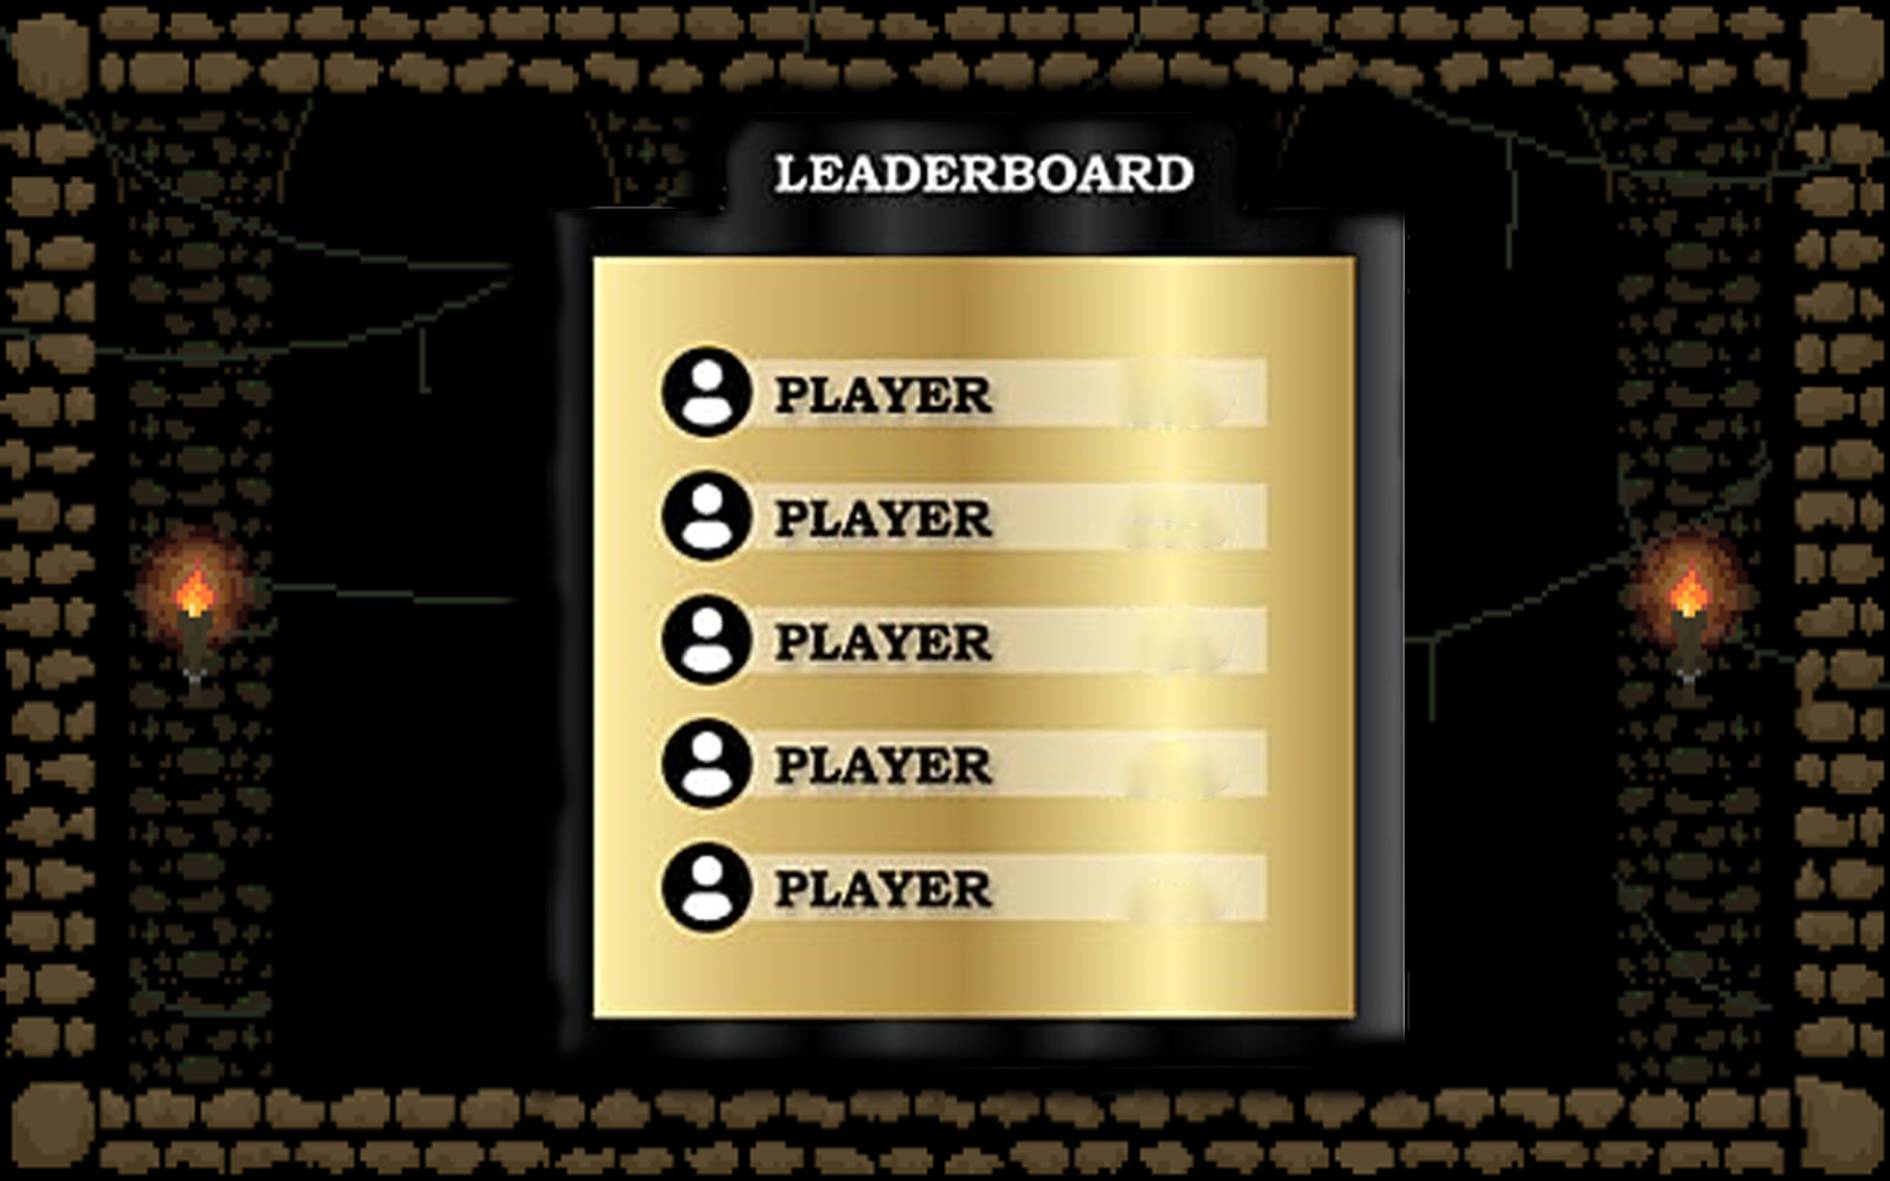
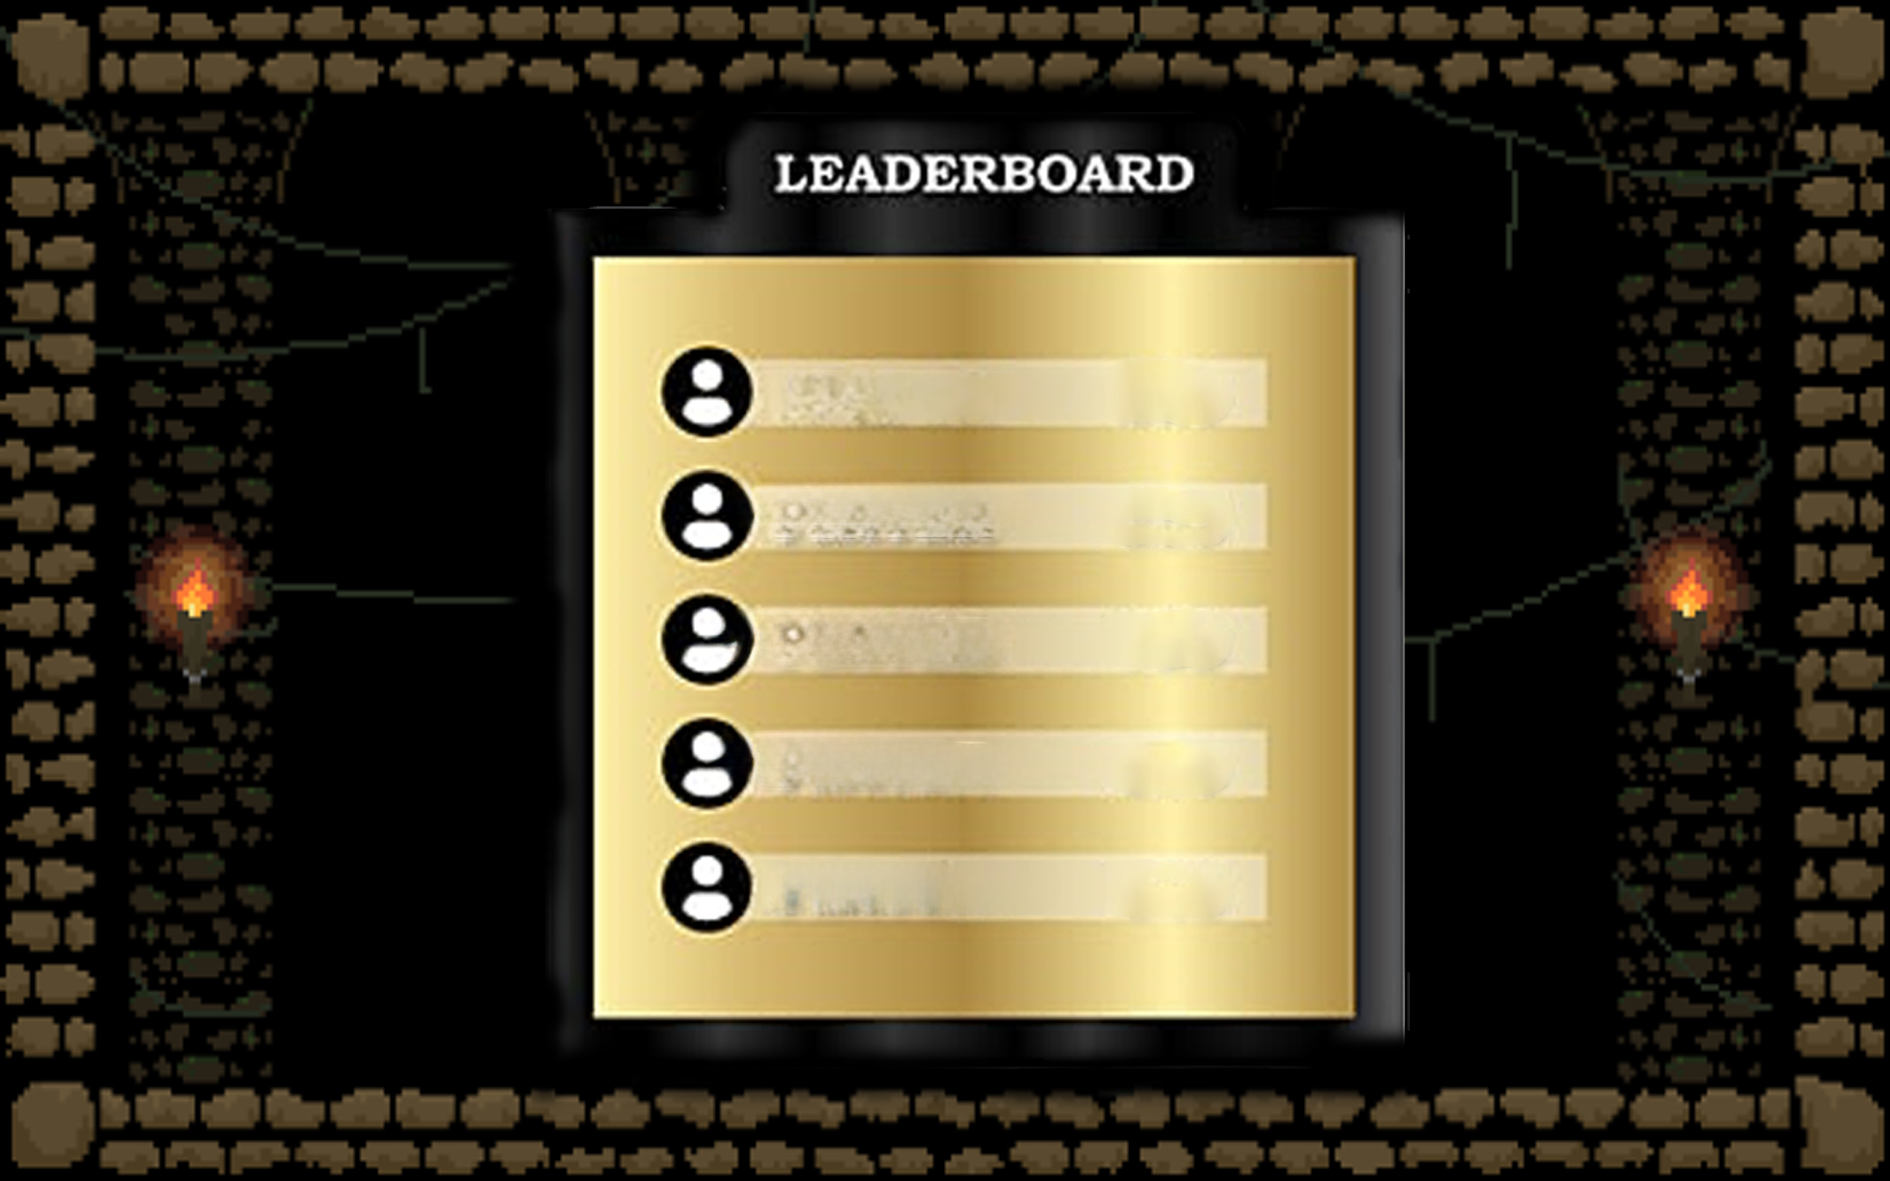
ranking

diff --git a/src/App.java b/src/App.java
@@ -124,9 +124,13 @@ public class App extends JPanel implements KeyListener, Runnable, MouseListener 
             g.drawImage(rule, 0, 0, this);
         } else if ("ranking".equals(state)) {
             g.drawImage(ranking,0,0, this);
-            g.setColor(new Color(0, 255, 0));
+            g.setColor(new Color(0, 0, 0));
             g.setFont(new Font("Arial", Font.PLAIN, 30));
             g.drawString("abc test test yes yes", 600, 300);
+            g.drawString("abc test test yes yes", 600, 390);
+            g.drawString("abc test test yes yes", 600, 480);
+            g.drawString("abc test test yes yes", 600, 570);
+            g.drawString("abc test test yes yes", 600, 660);
             g.setColor(new Color(0, 0, 0));
         } else if ("win".equals(state)) {
         	 g.drawImage(win,0,0, this);
